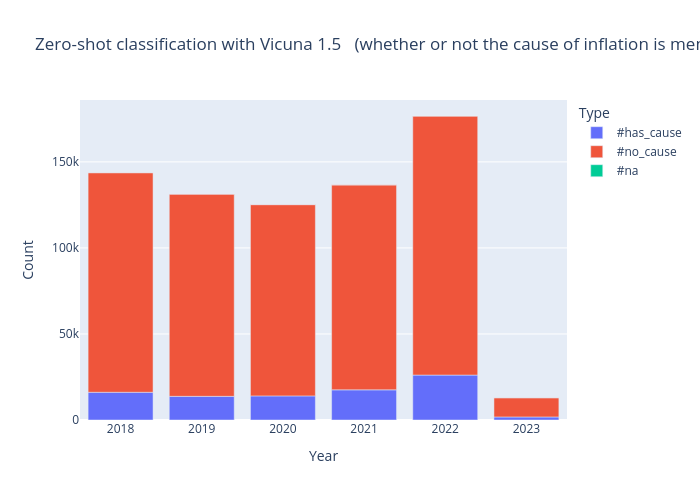
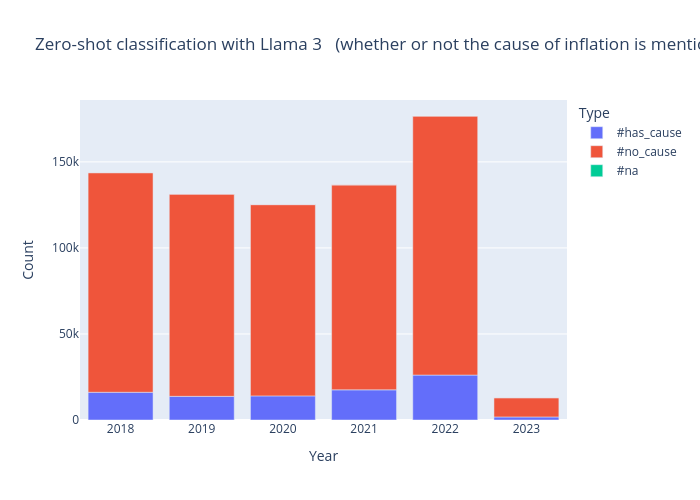
:sparkles: analysis change of prices

Changed region(s): [[0.36, 0.06, 1.0, 0.12]]

diff --git a/get_statistics.py b/get_statistics.py
@@ -29,7 +29,7 @@ direction_of_change_file_names = ["./outputs/llama3/change_in_prices/2.2.change_
                                   "./outputs/llama3/change_in_prices/2.2.change_direction_2021.csv",
                                   "./outputs/llama3/change_in_prices/2.2.change_direction_2023.csv"]
 
-file_names = deflation_has_cause_file_names
+file_names = change_of_prices_file_names
 
 stats = []
 df_has_cause = []
@@ -48,16 +48,16 @@ for i, name in enumerate(file_names):
 
 stats_df = pd.DataFrame(stats)
 df_has_cause = pd.concat(df_has_cause)
-df_has_cause.to_csv("./outputs/llama3/deflation/has_cause_df.csv")
+df_has_cause.to_csv("./outputs/llama3/change_in_prices/has_cause_df.csv")
 
 fig = px.bar(stats_df, x="Year", y="Count", color="Type",
-             title="Zero-shot classification with Llama 3 \n (whether or not the cause of deflation is mentioned)")
-fig.write_image("./outputs/llama3/deflation/stats_classification_has_cause.png")
+             title="Zero-shot classification with Llama 3 \n (whether or not the cause of change in prices is mentioned)")
+fig.write_image("./outputs/llama3/change_in_prices/stats_classification_has_cause.png")
 
 stats_has_cause_df = stats_df.loc[stats_df["Type"] == "#has_cause"]
 fig = px.bar(stats_has_cause_df, x="Year", y="Count",
-             title="Distribution of articles mentioning deflation causes")
-fig.write_image("./outputs/llama3/deflation/has_cause_distribution.png")
+             title="Distribution of articles mentioning causes for change in prices")
+fig.write_image("./outputs/llama3/change_in_prices/has_cause_distribution.png")
 
 
 
